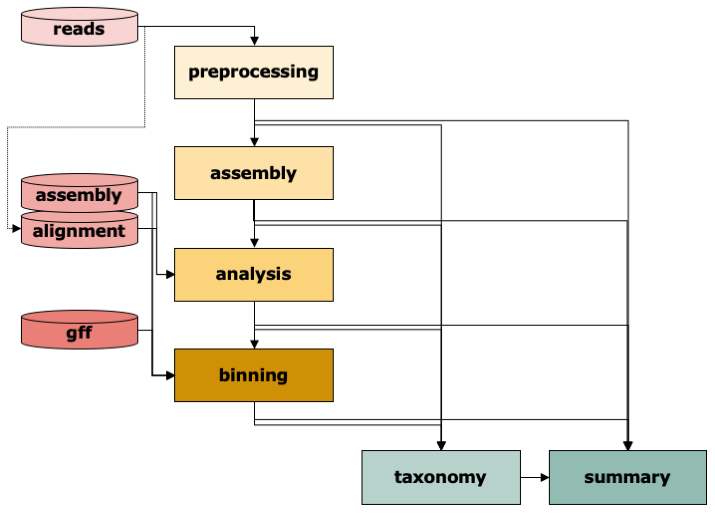
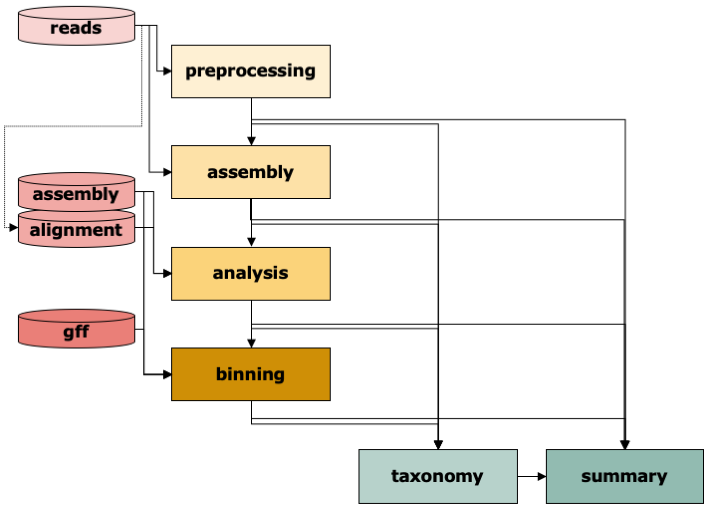
docs

diff --git a/docs/source/steps/Overview.rst b/docs/source/steps/Overview.rst
@@ -8,14 +8,19 @@ The workflow of IMP3 consists of six modules: :ref:`pre-processing <step_preproc
  :ref:`analysis <step_analysis>` of contigs including
 functional annotation, :ref:`binning <step_binning>` of contigs, determination of :ref:`taxonomy <step_taxonomy>` at
 various levels, and :ref:`summary <step_summary>` including visualization.
-Given the appropriate :ref:`input<input_options>` , you can run most steps independently.
+Typically, you will supply IMP3 with reads and it will run through the whole workflow.
 
 .. image:: ../figures/steps.png
-    :width: 715px
+    :width: 711px
     :align: left
-    :height: 513px
+    :height: 515px
     :alt: IMP3 steps
 
+Given the appropriate :ref:`input<input_options>` , you can also run most steps independently. For instance, you may have
+already processed reads and are looking to assemble and annotate them. You'd then select only assembly and analysis from the
+steps (and potentially summary). You can also supply an assembly that you may want to have
+annotated and binned. Or an annotated assembly that you want binned etc. Just enter your
+input data and select the steps in the :ref:`config <configuration>` file and IMP3 will take care of it.
 
 To get an impression of all steps of a run with metagenomics and metatranscriptomics reads (hybrid assembly),
 download :download:`this file <../figures/hybrid_dag.pdf>`.

diff --git a/docs/source/output/Overview.rst b/docs/source/output/Overview.rst
@@ -1,4 +1,18 @@
-========================
-Overview of IMP's output 
-========================
+
+.. _output:
+
+=========================
+Overview of IMP3's output 
+=========================
+
+Once you run IMP3, it will fill the output directory with the intermediary outputs and results. Before the end,
+it will compress some of the intermediary steps. Finally, it will make some summaries and visualizations (if you want).
+Here's an overview of the all outputs:
+
+.. image:: ../figures/outputs.png
+    :width: 711px
+    :align: left
+    :height: 515px
+    :alt: IMP3 outputs
+
 
